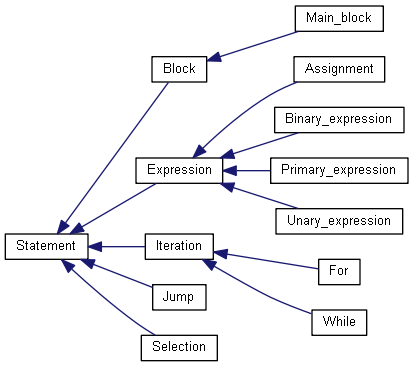
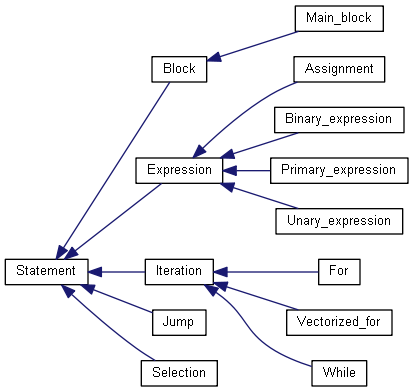
rapport

diff --git a/rapport/rapport_global.tex b/rapport/rapport_global.tex
@@ -1,5 +1,7 @@
-\documentclass[a4paper,8pt,french,fleqn]{report}
+\documentclass[a4paper,8pt,french,fleqn]{article}
 %Packages:
+
+\usepackage{graphicx}
 
 %Langages:
 \usepackage[french]{babel}
@@ -21,21 +23,84 @@
 \date{\today}
 
 \begin{document}
-
 \maketitle
 
-\newpage
+\clearpage
 
 \section*{Equipe}
 
 L'équipe est constituée de MAUPEU Xavier, FIOT Arthur, DEVOIR Loïc et PHILIPPI Alexandre. Tous les quatre nous sommes du groupe 4 de travaux dirigés, avec comme encadrant Mr. SERGENT Marc.
 
-\section*{Sujet}
 
+\section{Implémentation}
+
+Notre implémentation est basée sur le langage C. Pour cela nous nous sommes penchés sur différents points.
+
+\subsection{Types supportés}
+
+Les types implémentés sont \textit{float} et \textit{int}, tableaux statiques et dynamiques de \textit{float} et \textit{int}. Le compilateur gère les variables et tableaux globaux.
+
+\subsection{Fonctions}
+
+On peut déclarer les fonctions externes grâce à des prototypes. Les paramètres peuvent etre des \textit{int}, des \textit{float} et des tableaux dynamiques.
+Les fonctions \textit{printint(int)} et \textit{printfloat(float)} sont prédéfinies et peuvent être utilisées par l'utilisateur.
+
+\subsection{Expressions}
+
+Le compilateur gère les opérations courantes telles que "+", "-" , "*", "!","<",">","<=",">=","!=" et "==" entre deux variables de même type.\\
+
+\subsection{Instructions}
+
+Le compilateur gère les affectations, les boucles \textit{for} et \textit{while}, les blocs d'instructions et le \textit{if} (qui peut avoir ou non un \textit{else}).
+
+
+\section{Codage du compilateur}
+Le compilateur a été réalisé en C++ 11 afin de pouvoir utiliser une approche objet des instructions (fig. \ref{archi}). Les classes \textit{std::string} et \textit{std::ostringstream} nous ont aussi été très utiles.
+
+\begin{figure}[h!]
+\includegraphics[scale = 0.8]{inherit_graph.png}
+\caption{Graphe représentatif de l'architecture}
+\label{archi}
+\end{figure}
+
+\subsection{Gestion des erreurs}
+
+La syntaxe du code lu est vérifiée grâce à la grammaire, mais cela ne suffit pas: par exemple, l'affectation d'un \textit{float} dans une variable de type \textit{int} provoque un comportement indéterminé à l'exécution. Pour cela nous avons choisi d'utiliser le système de gestion d'exceptions du c++. Le compilateur gère ainsi 38 types d'erreurs différentes parmi lesquelles : 
+\begin{itemize}
+\item les types interdits (comme le type void),
+\item variables ou fonctions non déclarées,
+\item affectation d'une variable d'un mauvais type,
+\item des types non correspondants pour les opérateurs binaires,
+\item des types non correspondants pour les opérateurs unaires,
+\item non concordance des arguments lors de l'appel d'une fonction,
+\item fonction void qui retourne une valeur,
+\item fonction qui retourne un type différent du type de retour déclaré.
+\end{itemize}
+
+\subsection{Les types flottants}
+Le stockage des flottants se fait sur la pile et prend à chaque fois 4 octets. Pour toutes les opérations nécessitant de manipuler des flottants comme les affectations ou les opérations binaires, on charge la valeur stockée sur la pile dans un registre de travail $\%xmm*$. Nous avons choisi de ne pas utiliser les registres AVX car deux de nos ordinateurs ne pouvaient pas les exécuter. 
+
+\section{Boucles for vectorielles}
 L'extension implémentée est la ``Boucle \textit{for} vectorielle'' via les deux pragmas : ``\#pragma omp simd'' et ``\#pragma omp simd reduction(+: id)''.
-La boucle \textit{for} ne devra comporter que des affectations et sera de la forme:\\
-$for (i=cst ; i<cst ;i++) \{ \\
-(instructions) \\
+
+\subsection{Vectorisation à l'aide des instructions SIMD}
+
+La boucle \textit{for} ne devra comporter que des affectations sur des flottants et sera de la forme:\\
+$for (i=cst1 ; i<cst2 ;i++) \{ \\
+(assignments) \\
 \}\\$
-avec \textit{i} une variable quelconque et \textit{cst} des constantes quelconques.
+avec \textit{i} une variable quelconque et $cst*$ des constantes quelconques.
+Le nombre de tour de boucle, c'est à dire $cst2 - cst1$, doit être un multiple de 4.\\
+Pour ce type de boucle, la variable \textit{i} est incrémentée de 4 à chaque fois. Lors du chargement ou du stockage d'une case \textit{i} d'un tableau dans un registre $\%xmm*$, on en profite pour charger ou stocker aussi la case \textit{i+1}, \textit{i+2}, \textit{i+3} car les registres font 128 bits.\\
+On peut faire des opérations entre : 
+\begin{itemize}
+\item des tableaux et des constantes, ex : $A[i] + 5.0$,
+\item des tableaux et des variables locales ou globales, ex : $A[i] + b$,
+\item des tableaux et des fonctions, ex : $A[i] + sqrtf(b)$.
+\end{itemize}
+
+\subsection{Réduction d'une variable}
+En utilisant la ligne ``\#pragma omp simd reduction(+: id)' avant un \textit{for}, on peut utiliser dans le corps de la boucle l'affectation : $id = id + ...;$.
+Pour cela on somme les 4 éléments d'un registre $\%xmm*$, et on le stocke dans la variable \textit{id}.
+
 \end{document}

diff --git a/test_asm/test.c b/test_asm/test.c
@@ -1,10 +1,9 @@
 #include <stdio.h>
 #include <stdlib.h>
 
-void f()
+void f(float i)
 {
-	int i = 44;
-	printf("%d\n", i);
+	printf("%f\n", i);
 }
 
 int main(void) {
@@ -14,7 +13,7 @@ int main(void) {
 	
 	plop *= 22;
 	
-	f();
+	f(42.2);
 	
 	return 0;
 }
